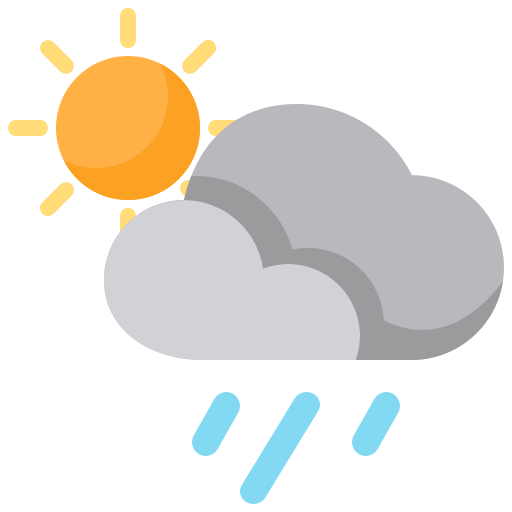
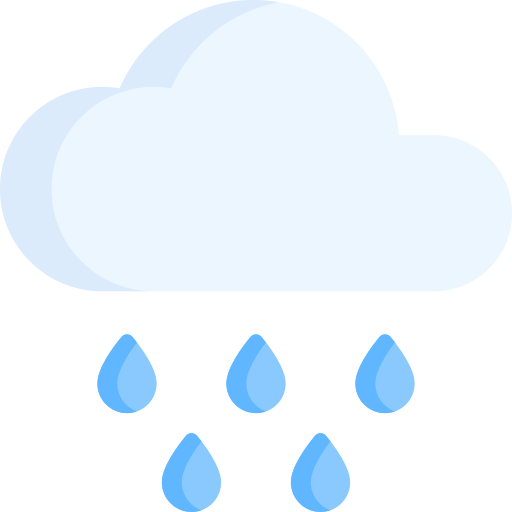
Se utiliza la api forecast para listar el clima del lugar.

diff --git a/lib/models/forecast_model.dart b/lib/models/forecast_model.dart
@@ -1,0 +1,186 @@
+import 'dart:math';
+
+double roundDouble(double value, int places){
+  num mod = pow(10.0, places);
+  return ((value * mod).round().toDouble() / mod);
+}
+
+class ForeCastModel {
+  ForeCastModel({
+    required this.dt,
+    required this.main,
+    required this.weather,
+    required this.clouds,
+    required this.wind,
+    required this.visibility,
+    required this.pop,
+    required this.sys,
+    required this.dtTxt,
+  });
+
+  int dt;
+  Main main;
+  List<Weather> weather;
+  Clouds clouds;
+  Wind wind;
+  double visibility;
+  double pop;
+  Sys sys;
+  DateTime dtTxt;
+
+  factory ForeCastModel.fromJson(Map<String, dynamic> json) => ForeCastModel(
+    dt: json["dt"],
+    main: Main.fromJson(json["main"]),
+    weather: List<Weather>.from(json["weather"].map((x) => Weather.fromJson(x))),
+    clouds: Clouds.fromJson(json["clouds"]),
+    wind: Wind.fromJson(json["wind"]),
+    visibility: json["visibility"].toDouble(),
+    pop: json["pop"].toDouble(),
+    sys: Sys.fromJson(json["sys"]),
+    dtTxt: DateTime.parse(json["dt_txt"]),
+  );
+
+  Map<String, dynamic> toJson() => {
+    "dt": dt,
+    "main": main.toJson(),
+    "weather": List<dynamic>.from(weather.map((x) => x.toJson())),
+    "clouds": clouds.toJson(),
+    "wind": wind.toJson(),
+    "visibility": visibility,
+    "pop": pop,
+    "sys": sys.toJson(),
+    "dt_txt": dtTxt.toIso8601String(),
+  };
+}
+
+class Clouds {
+  Clouds({
+    required this.all,
+  });
+
+  int all;
+
+  factory Clouds.fromJson(Map<String, dynamic> json) => Clouds(
+    all: json["all"],
+  );
+
+  Map<String, dynamic> toJson() => {
+    "all": all,
+  };
+}
+
+class Main {
+  Main({
+    required this.temp,
+    required this.feelsLike,
+    required this.tempMin,
+    required this.tempMax,
+    required this.pressure,
+    required this.seaLevel,
+    required this.grndLevel,
+    required this.humidity,
+    required this.tempKf,
+  });
+
+  double temp;
+  double feelsLike;
+  double tempMin;
+  double tempMax;
+  int pressure;
+  int seaLevel;
+  int grndLevel;
+  int humidity;
+  double tempKf;
+
+  factory Main.fromJson(Map<String, dynamic> json) => Main(
+    temp: roundDouble(((json["temp"].toDouble()) - 273.15),2),
+    feelsLike: json["feels_like"].toDouble(),
+    tempMin: json["temp_min"].toDouble(),
+    tempMax: json["temp_max"].toDouble(),
+    pressure: json["pressure"],
+    seaLevel: json["sea_level"],
+    grndLevel: json["grnd_level"],
+    humidity: json["humidity"],
+    tempKf: json["temp_kf"].toDouble(),
+  );
+
+  Map<String, dynamic> toJson() => {
+    "temp": temp,
+    "feels_like": feelsLike,
+    "temp_min": tempMin,
+    "temp_max": tempMax,
+    "pressure": pressure,
+    "sea_level": seaLevel,
+    "grnd_level": grndLevel,
+    "humidity": humidity,
+    "temp_kf": tempKf,
+  };
+}
+
+class Sys {
+  Sys({
+    required this.pod,
+  });
+
+  String pod;
+
+  factory Sys.fromJson(Map<String, dynamic> json) => Sys(
+    pod: json["pod"],
+  );
+
+  Map<String, dynamic> toJson() => {
+    "pod": pod,
+  };
+}
+
+class Weather {
+  Weather({
+    required this.id,
+    required this.main,
+    required this.description,
+    required this.icon,
+  });
+
+  int id;
+  String main;
+  String description;
+  String icon;
+
+  factory Weather.fromJson(Map<String, dynamic> json) => Weather(
+    id: json["id"],
+    main: json["main"],
+    description: json["description"],
+    icon: json["icon"],
+  );
+
+  Map<String, dynamic> toJson() => {
+    "id": id,
+    "main": main,
+    "description": description,
+    "icon": icon,
+  };
+}
+
+class Wind {
+  Wind({
+    required this.speed,
+    required this.deg,
+    required this.gust,
+  });
+
+  double speed;
+  int deg;
+  double gust;
+
+  factory Wind.fromJson(Map<String, dynamic> json) => Wind(
+    speed: json["speed"].toDouble(),
+    deg: json["deg"],
+    gust: json["gust"].toDouble(),
+  );
+
+  Map<String, dynamic> toJson() => {
+    "speed": speed,
+    "deg": deg,
+    "gust": gust,
+  };
+}

diff --git a/lib/pages/home_page.dart b/lib/pages/home_page.dart
@@ -1,4 +1,5 @@
 import 'package:flutter/material.dart';
+import 'package:flutter_codigo5_weatherapp/models/forecast_model.dart';
 import 'package:flutter_codigo5_weatherapp/models/weather_model.dart';
 import 'package:flutter_codigo5_weatherapp/services/api_service.dart';
 import 'package:flutter_codigo5_weatherapp/ui/general/colors.dart';
@@ -16,6 +17,7 @@ class _HomePageState extends State<HomePage> {
   final ApiService apiService = ApiService();
   final TextEditingController txtCityNameController = TextEditingController();
   WeatherModel? weatherModel;
+  List<ForeCastModel> foreCastModelList = [];
   bool isLoading = true;
 
   @override
@@ -38,6 +40,19 @@ class _HomePageState extends State<HomePage> {
         showMessage();
         setState(() {});
       }
+    });
+  }
+
+  _getForeCast() {
+    Geolocator.getCurrentPosition().then((position) {
+      print(position);
+      apiService.getDataWeatherForecast(position).then((value) {
+        if (value != null) {
+          foreCastModelList = value;
+          isLoading = false;
+          setState(() {});
+        }
+      });
     });
   }
 
@@ -110,6 +125,7 @@ class _HomePageState extends State<HomePage> {
               isLoading = true;
               setState(() {});
               _getDataWeatherLocation();
+              _getForeCast();
             },
             icon: Icon(
               Icons.location_on,
@@ -206,15 +222,7 @@ class _HomePageState extends State<HomePage> {
                     scrollDirection: Axis.horizontal,
                     physics: BouncingScrollPhysics(),
                     child: Row(
-                      children: [
-                        WeatherItemInfoWidget(),
-                        WeatherItemInfoWidget(),
-                        WeatherItemInfoWidget(),
-                        WeatherItemInfoWidget(),
-                        WeatherItemInfoWidget(),
-                        WeatherItemInfoWidget(),
-                        WeatherItemInfoWidget(),
-                      ],
+                      children: foreCastModelList.map((e) => WeatherItemInfoWidget(foreCastModel: e,)).toList(),
                     ),
                   ),
                   const SizedBox(

diff --git a/lib/ui/widgets/weather_item_info_widget.dart b/lib/ui/widgets/weather_item_info_widget.dart
@@ -2,10 +2,14 @@ import 'dart:ui';
 
 import 'package:flutter/cupertino.dart';
 import 'package:flutter/material.dart';
+import 'package:flutter_codigo5_weatherapp/models/forecast_model.dart';
 
 import '../general/colors.dart';
 
 class WeatherItemInfoWidget extends StatelessWidget {
+
+  ForeCastModel foreCastModel;
+  WeatherItemInfoWidget({required this.foreCastModel,});
 
   @override
   Widget build(BuildContext context) {
@@ -26,7 +30,7 @@ class WeatherItemInfoWidget extends StatelessWidget {
       child: Column(
         children: [
           Text(
-            "9:00 AM",
+            foreCastModel.dtTxt.toString().substring(11,16),
             style: TextStyle(
               color: Color(0xffADB6B7),
               fontSize: 12.0,
@@ -34,7 +38,7 @@ class WeatherItemInfoWidget extends StatelessWidget {
           ),
           const SizedBox(height: 12.0,),
           Image.asset(
-            'assets/images/cloud.png',
+              'assets/images/${foreCastModel.weather[0].description}.png',
             height: 34.0,
             color: Colors.white,
           ),
@@ -43,7 +47,7 @@ class WeatherItemInfoWidget extends StatelessWidget {
             crossAxisAlignment: CrossAxisAlignment.start,
             children: [
               Text(
-                "29",
+                foreCastModel.main.temp.toStringAsFixed(0),
                 style: TextStyle(
                   color: kTextPrimaryColor,
                   fontWeight: FontWeight.bold,
@@ -51,7 +55,7 @@ class WeatherItemInfoWidget extends StatelessWidget {
                 ),
               ),
               Text(
-                "º",
+                "ºC",
                 style: TextStyle(
                   color: kTextPrimaryColor,
                   fontWeight: FontWeight.bold,

diff --git a/lib/services/api_service.dart b/lib/services/api_service.dart
@@ -1,5 +1,6 @@
 import 'dart:convert';
 
+import 'package:flutter_codigo5_weatherapp/models/forecast_model.dart';
 import 'package:flutter_codigo5_weatherapp/models/weather_model.dart';
 import 'package:geolocator/geolocator.dart';
 import 'package:http/http.dart' as http;
@@ -35,5 +36,19 @@ class ApiService{
       return weatherModel;
     }
     return null;
+  }
+
+  Future<List<ForeCastModel>> getDataWeatherForecast(Position position) async{
+    String path = "https://api.openweathermap.org/data/2.5/forecast?lat=${position.latitude}&lon=${position.longitude}&cnt=10&appid=$keyApi";
+    Uri _uri = Uri.parse(path);
+    http.Response response = await http.get(_uri);
+    if(response.statusCode == 200){
+      Map<String, dynamic> result = json.decode(response.body);
+      List weatherList = result["list"];
+      List<ForeCastModel> foreCastModel = weatherList.map((e) => ForeCastModel.fromJson(e)).toList();
+      print(foreCastModel[0].weather[0].description);
+      return foreCastModel;
+    }
+    return [];
   }
 }
